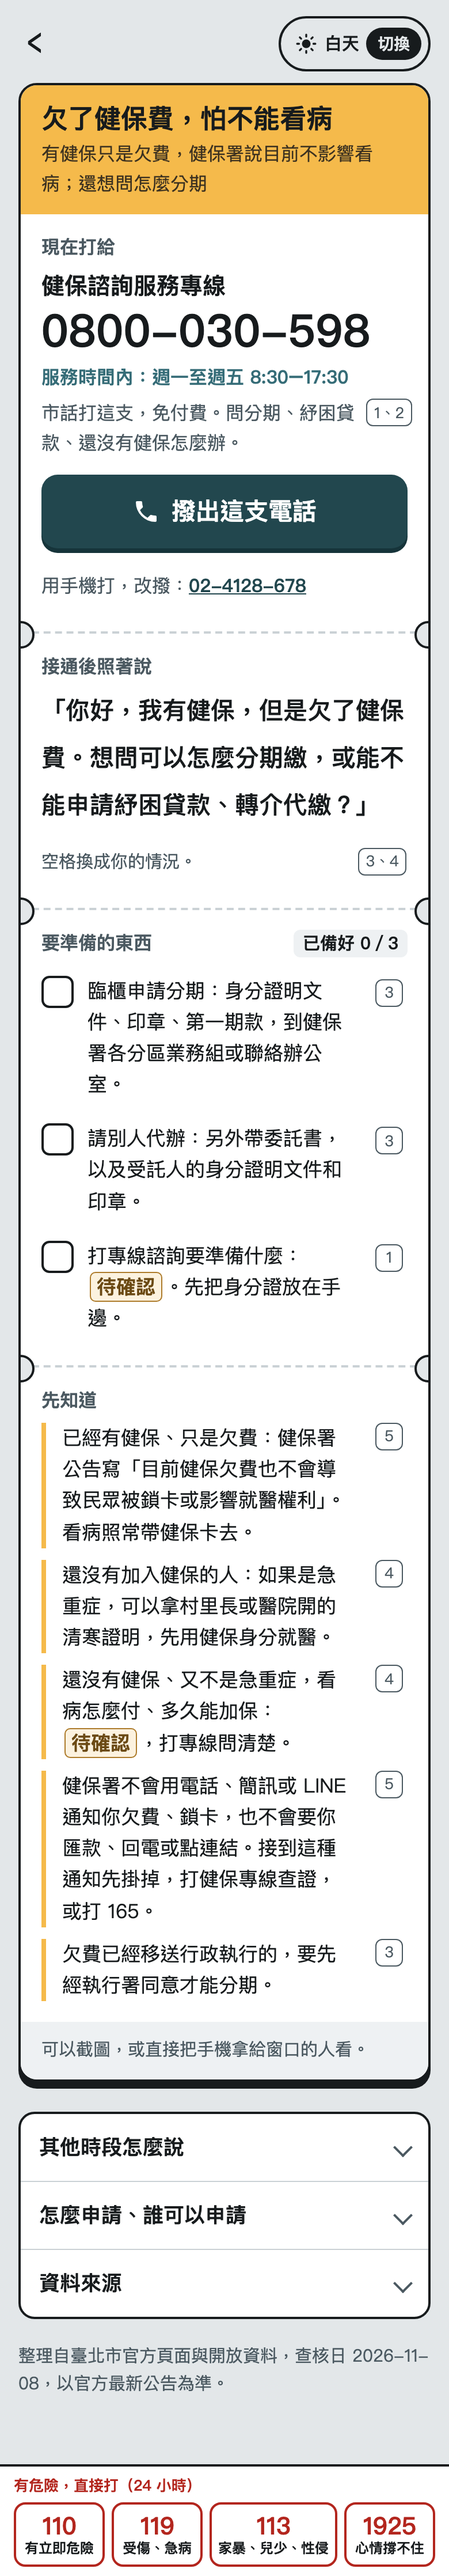
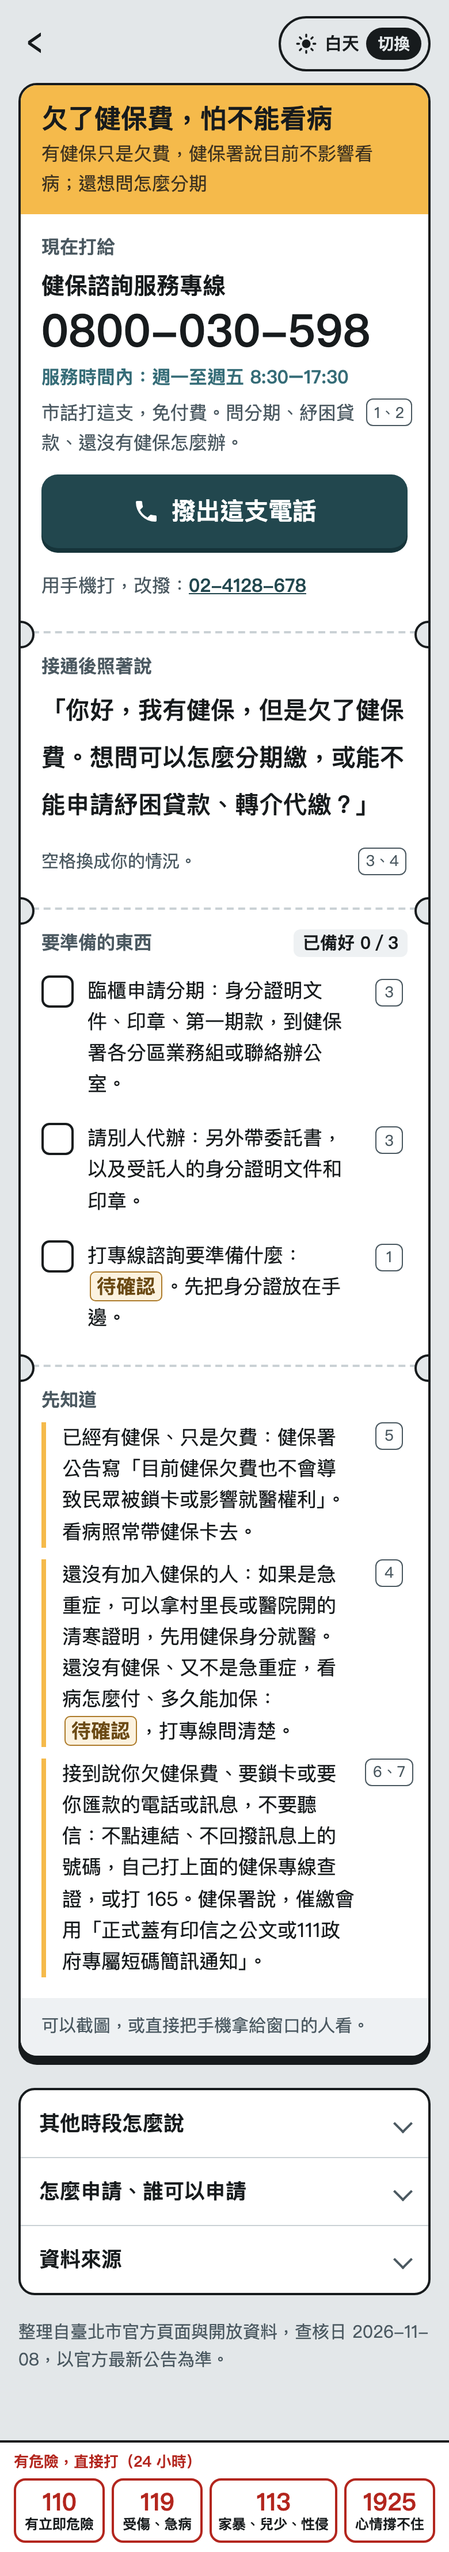
fix(situation): 健保防詐改引 111 短碼原文，簡易分期補官方條件，先知道減為三條
健保署 2026-02-07 新聞稿寫明催繳會用公文或 111 短碼簡訊，原本「不會用簡訊通知」與官方相反；網路／App 簡易分期漏了「欠費皆非移送行政執行中」與近兩年違約次數條件。未納保兩條合併，移送行政執行移到「怎麼申請」。新增測試擋住「不會用簡訊」這類絕對說法。

diff --git a/docs/prototypes/situation-entry/situations-data.js b/docs/prototypes/situation-entry/situations-data.js
@@ -208,7 +208,7 @@ window.SITUATION_DATA = {
       "title": "衛生福利部中央健康保險署：分期繳納",
       "publisher": "衛生福利部中央健康保險署",
       "url": "https://www.nhi.gov.tw/ch/cp-4491-11c56-2652-1.html",
-      "note": "保險對象欠費超過 2 千元可申請；現場帶身分證明文件、印章、第一期款；代辦加委託書及受託人身分證明文件、印章；已移送行政執行要先經執行署同意；可網路或 App 申請簡易分期",
+      "note": "保險對象欠費超過 2 千元可申請；現場帶身分證明文件、印章、第一期款；代辦加委託書及受託人身分證明文件、印章；已移送行政執行要先經執行署同意；網路／App 簡易分期條件：「欠費達2,000元以上，且欠費皆非移送行政執行中」、「近2年無健保分期違約紀錄或違約紀錄在1次(含)以下者」",
       "checkedOn": "2026-11-08"
     },
     "nhi-taipei-lines": {
@@ -224,7 +224,15 @@ window.SITUATION_DATA = {
       "title": "衛生福利部中央健康保險署闢謠專區：再次提醒，小心健保詐騙喔!",
       "publisher": "衛生福利部中央健康保險署",
       "url": "https://www.nhi.gov.tw/ch/cp-12322-366eb-3256-1.html",
-      "note": "原文：「目前健保欠費也不會導致民眾被鎖卡或影響就醫權利」；健保署「絕不會主動以電話語音、簡訊及 LINE等方式，通知民眾有關健保欠費、鎖卡或違規使用的情形」。公告寫於 COVID-19 口罩實名制期間；健保署網站擋程式抓取，用瀏覽器開啟核對",
+      "note": "原文：「目前健保欠費也不會導致民眾被鎖卡或影響就醫權利」。公告寫於 COVID-19 口罩實名制期間；怎麼通知催繳以 2026-02-07 新聞稿（nhi-sms-111）為準。健保署網站擋程式抓取，用瀏覽器開啟核對",
+      "checkedOn": "2026-11-08"
+    },
+    "nhi-sms-111": {
+      "short": "健保署：催繳用公文或 111 短碼簡訊",
+      "title": "衛生福利部中央健康保險署新聞稿：健保署呼籲提高警覺防詐騙 迎新春過好年",
+      "publisher": "衛生福利部中央健康保險署",
+      "url": "https://www.nhi.gov.tw/ch/cp-19645-0b89f-3255-1.html",
+      "note": "發布 2026-02-07。原文：「健保催繳及退還各類費用，皆會以正式蓋有印信之公文或111政府專屬短碼簡訊通知」；接獲不明郵件、簡訊連結、電話等，「不點擊、不聽信、不轉帳，有疑問先查證」。健保署網站擋程式抓取，用瀏覽器開啟核對",
       "checkedOn": "2026-11-08"
     }
   },
@@ -1088,7 +1096,13 @@ window.SITUATION_DATA = {
           ]
         },
         {
-          "text": "一時沒辦法一次繳清，可以申請分期：欠費超過 2 千元就能申請；可以臨櫃，也可以用電腦或「全民健保行動快易通｜健康存摺」App 申請簡易分期。",
+          "text": "一時沒辦法一次繳清，可以申請分期：欠費超過 2 千元就能申請，可以臨櫃辦。想用電腦或「全民健保行動快易通｜健康存摺」App 申請簡易分期，官方列的條件是「欠費達2,000元以上，且欠費皆非移送行政執行中」，以及「近2年無健保分期違約紀錄或違約紀錄在1次(含)以下者」。",
+          "sources": [
+            "nhi-installment"
+          ]
+        },
+        {
+          "text": "欠費已經移送行政執行的，要先經執行署同意才能分期。",
           "sources": [
             "nhi-installment"
           ]
@@ -1184,28 +1198,17 @@ window.SITUATION_DATA = {
           ]
         },
         {
-          "text": "還沒有加入健保的人：如果是急重症，可以拿村里長或醫院開的清寒證明，先用健保身分就醫。",
-          "sources": [
-            "nhi-hardship"
-          ]
-        },
-        {
-          "text": "還沒有健保、又不是急重症，看病怎麼付、多久能加保：待確認，打專線問清楚。",
+          "text": "還沒有加入健保的人：如果是急重症，可以拿村里長或醫院開的清寒證明，先用健保身分就醫。還沒有健保、又不是急重症，看病怎麼付、多久能加保：待確認，打專線問清楚。",
           "pending": true,
           "sources": [
             "nhi-hardship"
           ]
         },
         {
-          "text": "健保署不會用電話、簡訊或 LINE 通知你欠費、鎖卡，也不會要你匯款、回電或點連結。接到這種通知先掛掉，打健保專線查證，或打 165。",
+          "text": "接到說你欠健保費、要鎖卡或要你匯款的電話或訊息，不要聽信：不點連結、不回撥訊息上的號碼，自己打上面的健保專線查證，或打 165。健保署說，催繳會用「正式蓋有印信之公文或111政府專屬短碼簡訊通知」。",
           "sources": [
-            "nhi-no-lock"
-          ]
-        },
-        {
-          "text": "欠費已經移送行政執行的，要先經執行署同意才能分期。",
-          "sources": [
-            "nhi-installment"
+            "nhi-sms-111",
+            "cib-165"
           ]
         }
       ]
